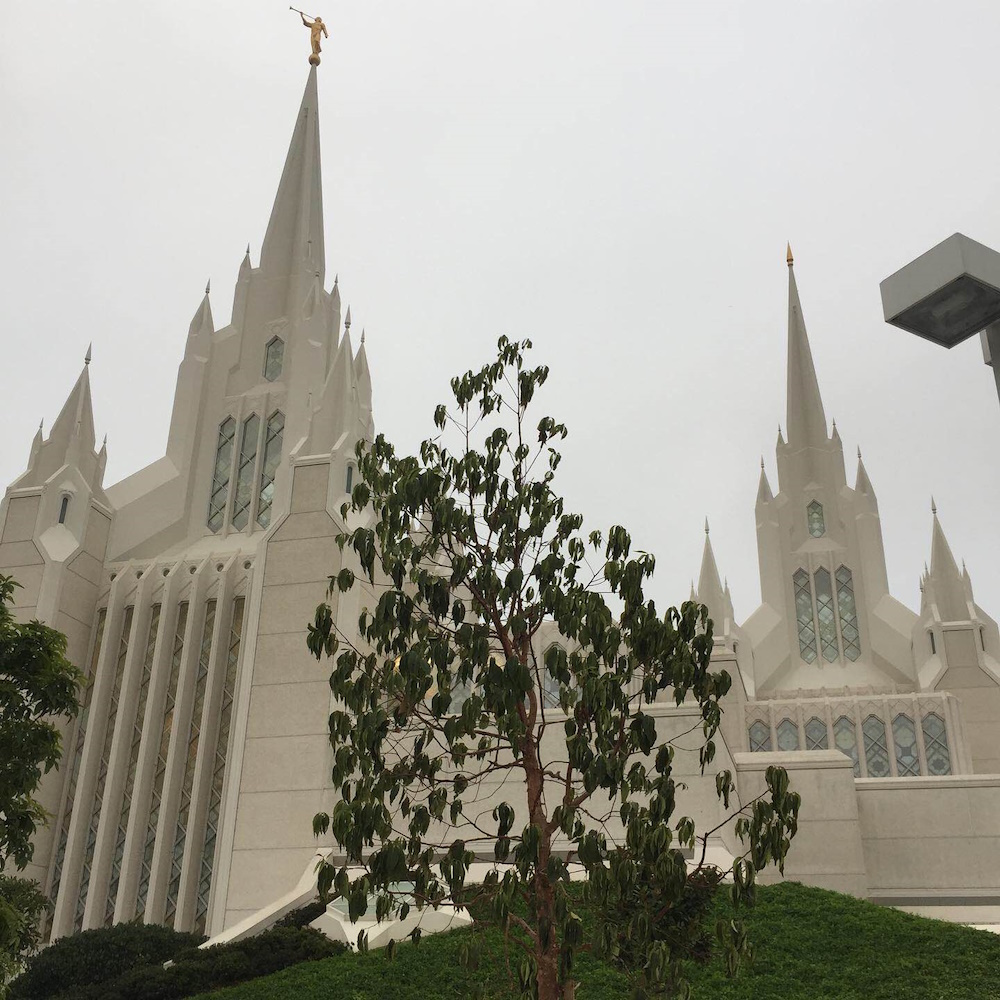
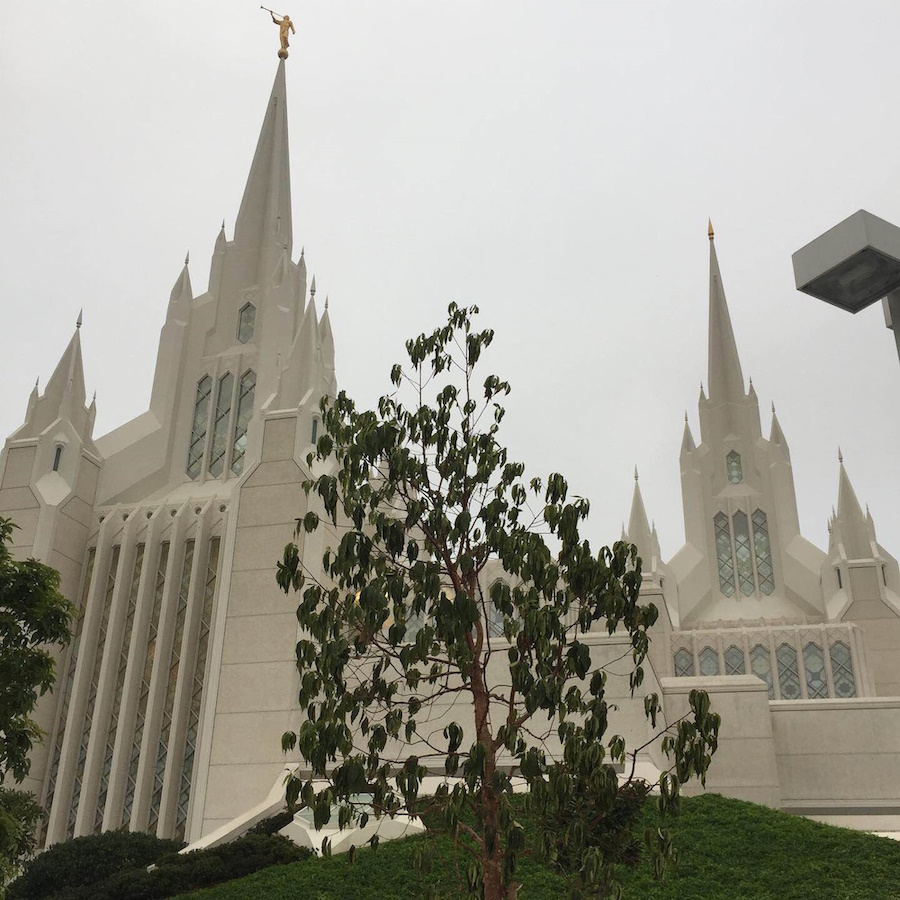
W02: Temple Album | dynmic image sizes, general fixes

diff --git a/temples.html b/temples.html
@@ -26,7 +26,7 @@
     <div id="content">
         <header>
             <h1>Temple Album</h1>
-            <button id="menu"></button>
+            <button id="menu" aria-label="Navigation Menu"></button>
             <nav class="nav">
                 <a href="#" class="active">
                     <p>Home</p>
@@ -49,99 +49,217 @@
         <main>
             <h2>Home</h2>
             <div id="temple-album">
-                <figure> <img src="images/temples/sdieg_cloud.jpg"
-                        alt="the San Diego, California Temple from the side. A single cloud glows in the sun between the towers">
+                <figure>
+                    <picture>
+                        <source media="(min-width:900px)" srcset="images/temples/500/sdieg_cloud.jpg">
+                        <source media="(min-width:1176px)" srcset="images/temples/740/sdieg_cloud.jpg"> <img
+                            src="images/temples/sdieg_cloud.jpg"
+                            alt="the San Diego, California Temple from the side. A single cloud glows in the sun between the towers">
+                    </picture>
                     <figcaption>San Diego, California</figcaption>
                 </figure>
-                <figure> <img src="images/temples/sdieg_clouds_heavy.jpg"
-                        alt="the San Diego, California Temple from the side. The loading dock is apperent">
+                <figure>
+                    <picture>
+                        <source media="(min-width:900px)" srcset="images/temples/500/sdieg_clouds_heavy.jpg">
+                        <source media="(min-width:1176px)" srcset="images/temples/740/sdieg_clouds_heavy.jpg"> <img
+                            src="images/temples/sdieg_clouds_heavy.jpg"
+                            alt="the San Diego, California Temple from the side. The loading dock is apparent">
+                    </picture>
                     <figcaption>San Diego, California</figcaption>
                 </figure>
-                <figure> <img src="images/temples/sdieg_clouds_very_heavy.jpg"
-                        alt="the San Diego, California Temple from the side">
+                <figure>
+                    <picture>
+                        <source media="(min-width:900px)" srcset="images/temples/500/sdieg_clouds_very_heavy.jpg">
+                        <source media="(min-width:1176px)" srcset="images/temples/740/sdieg_clouds_very_heavy.jpg"> <img
+                            src="images/temples/sdieg_clouds_very_heavy.jpg"
+                            alt="the San Diego, California Temple from the side">
+                    </picture>
                     <figcaption>San Diego, California</figcaption>
                 </figure>
-                <figure> <img src="images/temples/sdieg_flowers.jpg"
-                        alt="the San Diego, California Temple from the side through flowers">
+                <figure>
+                    <picture>
+                        <source media="(min-width:900px)" srcset="images/temples/500/sdieg_flowers.jpg">
+                        <source media="(min-width:1176px)" srcset="images/temples/740/sdieg_flowers.jpg"> <img
+                            src="images/temples/sdieg_flowers.jpg"
+                            alt="the San Diego, California Temple from the side through flowers">
+                    </picture>
                     <figcaption>San Diego, California</figcaption>
                 </figure>
-                <figure> <img src="images/temples/sdieg_fog.jpg" alt="the San Diego, California Temple from the side">
+                <figure>
+                    <picture>
+                        <source media="(min-width:900px)" srcset="images/temples/500/sdieg_fog.jpg">
+                        <source media="(min-width:1176px)" srcset="images/temples/740/sdieg_fog.jpg"> <img
+                            src="images/temples/sdieg_fog.jpg" alt="the San Diego, California Temple from the side">
+                    </picture>
                     <figcaption>San Diego, California</figcaption>
                 </figure>
-                <figure> <img src="images/temples/sdieg_haze.jpg" alt="the San Diego, California Temple from the front">
+                <figure>
+                    <picture>
+                        <source media="(min-width:900px)" srcset="images/temples/500/sdieg_haze.jpg">
+                        <source media="(min-width:1176px)" srcset="images/temples/740/sdieg_haze.jpg"> <img
+                            src="images/temples/sdieg_haze.jpg" alt="the San Diego, California Temple from the front">
+                    </picture>
                     <figcaption>San Diego, California</figcaption>
                 </figure>
-                <figure> <img src="images/temples/sdieg_nativity.png"
-                        alt="the San Diego, California Temple from the side. A nativity is present">
+                <figure>
+                    <picture>
+                        <source media="(min-width:900px)" srcset="images/temples/500/sdieg_nativity.jpg">
+                        <source media="(min-width:1176px)" srcset="images/temples/740/sdieg_nativity.jpg"> <img
+                            src="images/temples/sdieg_nativity.jpg"
+                            alt="the San Diego, California Temple from the side. A nativity is present">
+                    </picture>
                     <figcaption>San Diego, California</figcaption>
                 </figure>
-                <figure> <img src="images/temples/sdieg_night_wide.jpg"
-                        alt="the San Diego, California Temple from the side">
+                <figure>
+                    <picture>
+                        <source media="(min-width:900px)" srcset="images/temples/500/sdieg_night_wide.jpg">
+                        <source media="(min-width:1176px)" srcset="images/temples/740/sdieg_night_wide.jpg"> <img
+                            src="images/temples/sdieg_night_wide.jpg"
+                            alt="the San Diego, California Temple from the side">
+                    </picture>
                     <figcaption>San Diego, California</figcaption>
                 </figure>
-                <figure> <img src="images/temples/sdieg_night_wide_closer.jpg"
-                        alt="the San Diego, California Temple from the side">
+                <figure>
+                    <picture>
+                        <source media="(min-width:900px)" srcset="images/temples/500/sdieg_night_wide_closer.jpg">
+                        <source media="(min-width:1176px)" srcset="images/temples/740/sdieg_night_wide_closer.jpg"> <img
+                            src="images/temples/sdieg_night_wide_closer.jpg"
+                            alt="the San Diego, California Temple from the side">
+                    </picture>
                     <figcaption>San Diego, California</figcaption>
                 </figure>
 
-                <figure> <img src="images/temples/sdieg_clear_grass.jpg"
-                        alt="the San Diego, California Temple from the side">
+                <figure>
+                    <picture>
+                        <source media="(min-width:900px)" srcset="images/temples/500/sdieg_clear_grass.jpg">
+                        <source media="(min-width:1176px)" srcset="images/temples/740/sdieg_clear_grass.jpg"> <img
+                            src="images/temples/sdieg_clear_grass.jpg"
+                            alt="the San Diego, California Temple from the side">
+                    </picture>
                     <figcaption>San Diego, California</figcaption>
                 </figure>
-                <figure> <img src="images/temples/sdieg_clear_side.jpg"
-                        alt="the San Diego, California Temple from the side">
+                <figure>
+                    <picture>
+                        <source media="(min-width:900px)" srcset="images/temples/500/sdieg_clear_side.jpg">
+                        <source media="(min-width:1176px)" srcset="images/temples/740/sdieg_clear_side.jpg"> <img
+                            src="images/temples/sdieg_clear_side.jpg"
+                            alt="the San Diego, California Temple from the side">
+                    </picture>
                     <figcaption>San Diego, California</figcaption>
                 </figure>
-                <figure> <img src="images/temples/sdieg_clouds_rays.jpg"
-                        alt="the San Diego, California Temple from the side. Rays of light are shining from behind the clouds">
+                <figure>
+                    <picture>
+                        <source media="(min-width:900px)" srcset="images/temples/500/sdieg_clouds_rays.jpg">
+                        <source media="(min-width:1176px)" srcset="images/temples/740/sdieg_clouds_rays.jpg"> <img
+                            src="images/temples/sdieg_clouds_rays.jpg"
+                            alt="the San Diego, California Temple from the side. Rays of light are shining from behind the clouds">
+                    </picture>
                     <figcaption>San Diego, California</figcaption>
                 </figure>
-                <figure> <img src="images/temples/sdieg_clouds_whispy.jpg"
-                        alt="the San Diego, California Temple from the side">
+                <figure>
+                    <picture>
+                        <source media="(min-width:900px)" srcset="images/temples/500/sdieg_clouds_whispy.jpg">
+                        <source media="(min-width:1176px)" srcset="images/temples/740/sdieg_clouds_whispy.jpg"> <img
+                            src="images/temples/sdieg_clouds_whispy.jpg"
+                            alt="the San Diego, California Temple from the side">
+                    </picture>
                     <figcaption>San Diego, California</figcaption>
                 </figure>
-                <figure> <img src="images/temples/sdieg_evening_christmas.jpg"
-                        alt="the San Diego, California Temple from the side">
+                <figure>
+                    <picture>
+                        <source media="(min-width:900px)" srcset="images/temples/500/sdieg_evening_christmas.jpg">
+                        <source media="(min-width:1176px)" srcset="images/temples/740/sdieg_evening_christmas.jpg"> <img
+                            src="images/temples/sdieg_evening_christmas.jpg"
+                            alt="the San Diego, California Temple from the side">
+                    </picture>
                     <figcaption>San Diego, California</figcaption>
                 </figure>
-                <figure> <img src="images/temples/sdieg_fog_tower.jpg"
-                        alt="the San Diego, California Temple from the front">
+                <figure>
+                    <picture>
+                        <source media="(min-width:900px)" srcset="images/temples/500/sdieg_fog_tower.jpg">
+                        <source media="(min-width:1176px)" srcset="images/temples/740/sdieg_fog_tower.jpg"> <img
+                            src="images/temples/sdieg_fog_tower.jpg"
+                            alt="the San Diego, California Temple from the front">
+                    </picture>
                     <figcaption>San Diego, California</figcaption>
                 </figure>
-                <figure> <img src="images/temples/sdieg_night.jpg" alt="the San Diego, California Temple from the side">
+                <figure>
+                    <picture>
+                        <source media="(min-width:900px)" srcset="images/temples/500/sdieg_night.jpg">
+                        <source media="(min-width:1176px)" srcset="images/temples/740/sdieg_night.jpg"> <img
+                            src="images/temples/sdieg_night.jpg" alt="the San Diego, California Temple from the side">
+                    </picture>
                     <figcaption>San Diego, California</figcaption>
                 </figure>
 
-                <figure> <img src="images/temples/sdieg_clear_tower.jpg"
-                        alt="the San Diego, California Temple from the front">
+                <figure>
+                    <picture>
+                        <source media="(min-width:900px)" srcset="images/temples/500/sdieg_clear_tower.jpg">
+                        <source media="(min-width:1176px)" srcset="images/temples/740/sdieg_clear_tower.jpg"> <img
+                            src="images/temples/sdieg_clear_tower.jpg"
+                            alt="the San Diego, California Temple from the front">
+                    </picture>
                     <figcaption>San Diego, California</figcaption>
                 </figure>
-                <figure> <img src="images/temples/sdieg_clouds_clear.jpg"
-                        alt="the San Diego, California Temple from the side">
+                <figure>
+                    <picture>
+                        <source media="(min-width:900px)" srcset="images/temples/500/sdieg_clouds_clear.jpg">
+                        <source media="(min-width:1176px)" srcset="images/temples/740/sdieg_clouds_clear.jpg"> <img
+                            src="images/temples/sdieg_clouds_clear.jpg"
+                            alt="the San Diego, California Temple from the side">
+                    </picture>
                     <figcaption>San Diego, California</figcaption>
                 </figure>
-                <figure> <img src="images/temples/sdieg_evening.jpg"
-                        alt="the San Diego, California Temple from the side">
+                <figure>
+                    <picture>
+                        <source media="(min-width:900px)" srcset="images/temples/500/sdieg_evening.jpg">
+                        <source media="(min-width:1176px)" srcset="images/temples/740/sdieg_evening.jpg"> <img
+                            src="images/temples/sdieg_evening.jpg" alt="the San Diego, California Temple from the side">
+                    </picture>
                     <figcaption>San Diego, California</figcaption>
                 </figure>
-                <figure> <img src="images/temples/sdieg_evening_tower.jpg"
-                        alt="the San Diego, California Temple from the front">
+                <figure>
+                    <picture>
+                        <source media="(min-width:900px)" srcset="images/temples/500/sdieg_evening_tower.jpg">
+                        <source media="(min-width:1176px)" srcset="images/temples/740/sdieg_evening_tower.jpg"> <img
+                            src="images/temples/sdieg_evening_tower.jpg"
+                            alt="the San Diego, California Temple from the front">
+                    </picture>
                     <figcaption>San Diego, California</figcaption>
                 </figure>
-                <figure> <img src="images/temples/sdieg_nametag.jpg"
-                        alt="the San Diego, California Temple from the side. A nametag is held up saying 'Corry Palmer - Cafeteria'">
+                <figure>
+                    <picture>
+                        <source media="(min-width:900px)" srcset="images/temples/500/sdieg_nametag.jpg">
+                        <source media="(min-width:1176px)" srcset="images/temples/740/sdieg_nametag.jpg"> <img
+                            src="images/temples/sdieg_nametag.jpg"
+                            alt="the San Diego, California Temple from the side. A nametag is held up saying 'Corry Palmer - Cafeteria'">
+                    </picture>
                     <figcaption>San Diego, California</figcaption>
                 </figure>
-                <figure> <img src="images/temples/sdieg_night_tall.jpg"
-                        alt="the San Diego, California Temple from the side">
+                <figure>
+                    <picture>
+                        <source media="(min-width:900px)" srcset="images/temples/500/sdieg_night_tall.jpg">
+                        <source media="(min-width:1176px)" srcset="images/temples/740/sdieg_night_tall.jpg"> <img
+                            src="images/temples/sdieg_night_tall.jpg"
+                            alt="the San Diego, California Temple from the side">
+                    </picture>
                     <figcaption>San Diego, California</figcaption>
                 </figure>
-                <figure> <img src="images/temples/sdieg_tower.jpg"
-                        alt="the San Diego, California Temple from the front">
+                <figure>
+                    <picture>
+                        <source media="(min-width:900px)" srcset="images/temples/500/sdieg_tower.jpg">
+                        <source media="(min-width:1176px)" srcset="images/temples/740/sdieg_tower.jpg"> <img
+                            src="images/temples/sdieg_tower.jpg" alt="the San Diego, California Temple from the front">
+                    </picture>
                     <figcaption>San Diego, California</figcaption>
                 </figure>
-                <figure> <img src="images/temples/sdieg_selfie.jpg"
-                        alt="A selfie of Corry in front of the San Diego, California Temple">
+                <figure>
+                    <picture>
+                        <source media="(min-width:900px)" srcset="images/temples/500/sdieg_selfie.jpg">
+                        <source media="(min-width:1176px)" srcset="images/temples/740/sdieg_selfie.jpg"> <img
+                            src="images/temples/sdieg_selfie.jpg"
+                            alt="A selfie of Corry in front of the San Diego, California Temple">
+                    </picture>
                     <figcaption>San Diego, California</figcaption>
                 </figure>
             </div>

diff --git a/styles/temples-large.css b/styles/temples-large.css
@@ -40,6 +40,8 @@
 
     .nav .active:hover {
         background-color: #58a1a3;
+        color: #2051a9;
+        text-shadow: #6495ed 2px 2px;
     }
 
     #temple-album {

diff --git a/styles/temples.css b/styles/temples.css
@@ -44,7 +44,6 @@ body {
 header {
     background-color: #1e5d5f;
     grid-column: 1/4;
-    height: 5rem;
 }
 
 /* Menu Button*/
